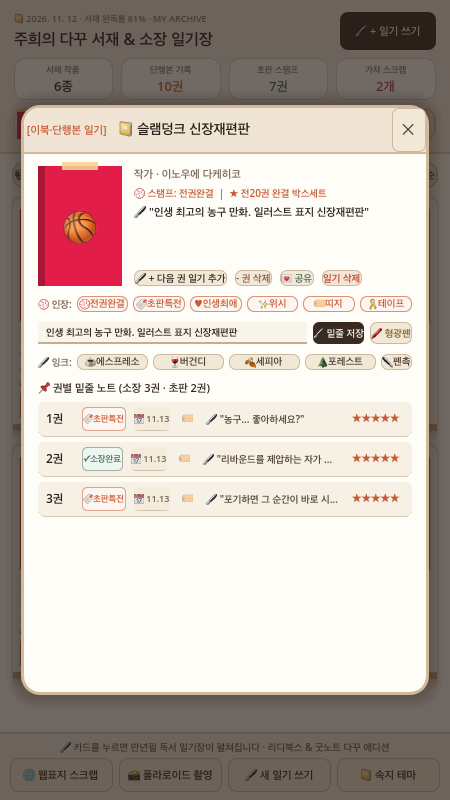
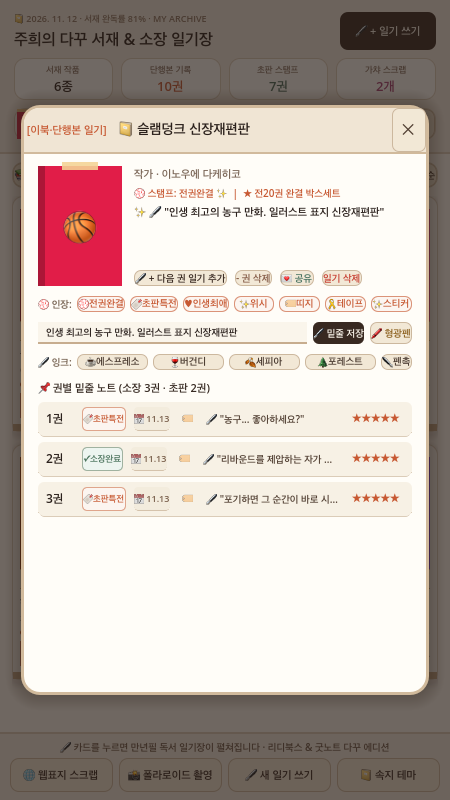
feat(game02): Sprint 27 diary deco sticker pack & quick volume progress advance

Changed region(s): [[0.28, 0.2188, 0.84, 0.2812], [0.1556, 0.3438, 0.9022, 0.4062]]

diff --git a/game02/index.html b/game02/index.html
@@ -1,5 +1,6 @@
 <!DOCTYPE html>
 <html lang="ko">
+
 <head>
     <meta charset="UTF-8">
     <meta name="viewport" content="width=device-width, initial-scale=1.0">
@@ -41,16 +42,17 @@
             box-shadow:
                 -3px 0 0 #d6cfc7,
                 -5px 6px 14px rgba(44, 34, 30, 0.18),
-                inset 4px 0 8px rgba(255,255,255,0.35),
-                inset 10px 0 2px rgba(0,0,0,0.12);
+                inset 4px 0 8px rgba(255, 255, 255, 0.35),
+                inset 10px 0 2px rgba(0, 0, 0, 0.12);
             transition: transform 0.22s ease, box-shadow 0.22s ease;
         }
+
         .ebook-cover:hover {
             transform: translateY(-6px) rotate(-1deg);
             box-shadow:
                 -4px 0 0 #d6cfc7,
                 -8px 12px 20px rgba(44, 34, 30, 0.24),
-                inset 4px 0 8px rgba(255,255,255,0.4);
+                inset 4px 0 8px rgba(255, 255, 255, 0.4);
         }
 
         /* Masking Tape (다꾸 마스킹 테이프) */
@@ -58,10 +60,10 @@
             width: 58px;
             height: 16px;
             background: rgba(244, 211, 148, 0.72);
-            border-left: 2px dashed rgba(255,255,255,0.7);
-            border-right: 2px dashed rgba(255,255,255,0.7);
+            border-left: 2px dashed rgba(255, 255, 255, 0.7);
+            border-right: 2px dashed rgba(255, 255, 255, 0.7);
             transform: rotate(-3deg);
-            box-shadow: 0 1px 3px rgba(0,0,0,0.08);
+            box-shadow: 0 1px 3px rgba(0, 0, 0, 0.08);
         }
 
         /* Red Rubber Stamp (다꾸 완독/소장 도장) */
@@ -77,12 +79,10 @@
         /* Ruled Journal Notebook Lines */
         .journal-lined-paper {
             background-color: #fffdf9;
-            background-image: repeating-linear-gradient(
-                transparent,
-                transparent 29px,
-                #ece3d5 29px,
-                #ece3d5 30px
-            );
+            background-image: repeating-linear-gradient(transparent,
+                    transparent 29px,
+                    #ece3d5 29px,
+                    #ece3d5 30px);
             line-height: 30px;
         }
 
@@ -95,6 +95,7 @@
         }
     </style>
 </head>
+
 <body class="min-h-screen flex flex-col">
 
     <!-- Journal Top Notebook Binder Header -->
@@ -114,13 +115,16 @@
 
             <!-- Journal Index Bookmark Buttons -->
             <div class="flex items-center gap-2 self-end sm:self-center">
-                <button onclick="openWebScraperModal()" class="px-3.5 py-2 rounded-xl bg-[#fffdf9] hover:bg-[#f7f0e6] text-[#5c4938] border border-[#d8cbb8] font-bold text-xs shadow-2xs cursor-pointer transition flex items-center gap-1.5">
+                <button onclick="openWebScraperModal()"
+                    class="px-3.5 py-2 rounded-xl bg-[#fffdf9] hover:bg-[#f7f0e6] text-[#5c4938] border border-[#d8cbb8] font-bold text-xs shadow-2xs cursor-pointer transition flex items-center gap-1.5">
                     <i class="fa-solid fa-magnifying-glass text-[#c85a32]"></i> 웹 표지 찾기
                 </button>
-                <button onclick="openCameraModal()" class="px-3.5 py-2 rounded-xl bg-[#fffdf9] hover:bg-[#f7f0e6] text-[#5c4938] border border-[#d8cbb8] font-bold text-xs shadow-2xs cursor-pointer transition flex items-center gap-1.5">
+                <button onclick="openCameraModal()"
+                    class="px-3.5 py-2 rounded-xl bg-[#fffdf9] hover:bg-[#f7f0e6] text-[#5c4938] border border-[#d8cbb8] font-bold text-xs shadow-2xs cursor-pointer transition flex items-center gap-1.5">
                     <i class="fa-solid fa-camera text-[#4a6b5d]"></i> 표지/가챠 찍기
                 </button>
-                <button onclick="openNewDiaryModal()" class="px-4 py-2 rounded-xl bg-[#2c221e] hover:bg-[#43352f] text-[#faf6f0] font-bold text-xs shadow-xs cursor-pointer transition flex items-center gap-1.5">
+                <button onclick="openNewDiaryModal()"
+                    class="px-4 py-2 rounded-xl bg-[#2c221e] hover:bg-[#43352f] text-[#faf6f0] font-bold text-xs shadow-xs cursor-pointer transition flex items-center gap-1.5">
                     <i class="fa-solid fa-feather-pointed"></i> + 새 일기 쓰기
                 </button>
             </div>
@@ -161,19 +165,26 @@
             </div>
 
             <!-- Sprint 9: Mini E-Book Spine Shelf & Today's Underlined Quote Cycler -->
-            <div class="mt-4 pt-3 border-t border-dashed border-[#e2d6c5] flex flex-col sm:flex-row sm:items-center justify-between gap-3">
+            <div
+                class="mt-4 pt-3 border-t border-dashed border-[#e2d6c5] flex flex-col sm:flex-row sm:items-center justify-between gap-3">
                 <div class="flex items-center gap-3">
                     <span class="text-[11px] font-bold text-[#786b63] shrink-0">📚 내 책등 선반:</span>
-                    <div id="mini-spine-shelf" class="flex items-end gap-1 h-7 px-2 py-0.5 bg-[#f3ece1] rounded-lg border border-[#dfd3c3]"></div>
+                    <div id="mini-spine-shelf"
+                        class="flex items-end gap-1 h-7 px-2 py-0.5 bg-[#f3ece1] rounded-lg border border-[#dfd3c3]">
+                    </div>
                 </div>
                 <div class="flex items-center justify-between sm:justify-end gap-2 flex-1">
-                    <span id="today-quote-banner" class="serif-font text-xs text-[#5c4938] italic truncate cursor-pointer hover:underline" onclick="openCurrentQuoteItem()">
+                    <span id="today-quote-banner"
+                        class="serif-font text-xs text-[#5c4938] italic truncate cursor-pointer hover:underline"
+                        onclick="openCurrentQuoteItem()">
                         🖋 오늘의 밑줄: "농구... 좋아하세요?" — 슬램덩크 신장재편판
                     </span>
-                    <button onclick="cycleTodayQuote()" class="px-2.5 py-1 rounded-lg bg-[#f3ece1] hover:bg-[#e5dac9] border border-[#d6c7b2] text-[#2c221e] text-[11px] font-bold shrink-0 cursor-pointer">
+                    <button onclick="cycleTodayQuote()"
+                        class="px-2.5 py-1 rounded-lg bg-[#f3ece1] hover:bg-[#e5dac9] border border-[#d6c7b2] text-[#2c221e] text-[11px] font-bold shrink-0 cursor-pointer">
                         ↻ 다른 문장
                     </button>
-                    <button onclick="pickRandomItem()" class="px-2.5 py-1 rounded-lg bg-[#c85a32] hover:bg-[#b04b25] text-white text-[11px] font-bold shrink-0 cursor-pointer">
+                    <button onclick="pickRandomItem()"
+                        class="px-2.5 py-1 rounded-lg bg-[#c85a32] hover:bg-[#b04b25] text-white text-[11px] font-bold shrink-0 cursor-pointer">
                         🎲 추천
                     </button>
                 </div>
@@ -184,26 +195,32 @@
         <section class="flex flex-col sm:flex-row items-stretch sm:items-center justify-between gap-3">
             <!-- Physical Diary Index Tabs -->
             <div class="flex items-center gap-1.5 flex-wrap">
-                <button onclick="switchCategory('all')" id="tab-all" class="px-3.5 py-2 rounded-t-xl border-t-2 border-x border-[#d8cbb8] bg-[#fffdf9] text-[#2c221e] font-bold text-xs shadow-2xs cursor-pointer">
+                <button onclick="switchCategory('all')" id="tab-all"
+                    class="px-3.5 py-2 rounded-t-xl border-t-2 border-x border-[#d8cbb8] bg-[#fffdf9] text-[#2c221e] font-bold text-xs shadow-2xs cursor-pointer">
                     📚 전체 서재
                 </button>
-                <button onclick="switchCategory('manga')" id="tab-manga" class="px-3.5 py-2 rounded-t-xl border border-transparent bg-[#efe7da] text-[#786b63] hover:text-[#2c221e] font-bold text-xs cursor-pointer">
+                <button onclick="switchCategory('manga')" id="tab-manga"
+                    class="px-3.5 py-2 rounded-t-xl border border-transparent bg-[#efe7da] text-[#786b63] hover:text-[#2c221e] font-bold text-xs cursor-pointer">
                     📖 이북·단행본 일기
                 </button>
-                <button onclick="switchCategory('gacha')" id="tab-gacha" class="px-3.5 py-2 rounded-t-xl border border-transparent bg-[#efe7da] text-[#786b63] hover:text-[#2c221e] font-bold text-xs cursor-pointer">
+                <button onclick="switchCategory('gacha')" id="tab-gacha"
+                    class="px-3.5 py-2 rounded-t-xl border border-transparent bg-[#efe7da] text-[#786b63] hover:text-[#2c221e] font-bold text-xs cursor-pointer">
                     🔮 가챠·굿즈
                 </button>
-                <button onclick="switchCategory('complete')" id="tab-complete" class="px-3.5 py-2 rounded-t-xl border border-transparent bg-[#efe7da] text-[#786b63] hover:text-[#2c221e] font-bold text-xs cursor-pointer">
+                <button onclick="switchCategory('complete')" id="tab-complete"
+                    class="px-3.5 py-2 rounded-t-xl border border-transparent bg-[#efe7da] text-[#786b63] hover:text-[#2c221e] font-bold text-xs cursor-pointer">
                     💮 완독작
                 </button>
-                <button onclick="switchCategory('fav')" id="tab-fav" class="px-3.5 py-2 rounded-t-xl border border-transparent bg-[#efe7da] text-[#786b63] hover:text-[#2c221e] font-bold text-xs cursor-pointer">
+                <button onclick="switchCategory('fav')" id="tab-fav"
+                    class="px-3.5 py-2 rounded-t-xl border border-transparent bg-[#efe7da] text-[#786b63] hover:text-[#2c221e] font-bold text-xs cursor-pointer">
                     ★ 인생작
                 </button>
             </div>
 
             <!-- Fountain-pen Search Input -->
             <div class="relative w-full sm:w-64">
-                <i class="fa-solid fa-magnifying-glass absolute left-3 top-1/2 -translate-y-1/2 text-[#9c8c7c] text-xs"></i>
+                <i
+                    class="fa-solid fa-magnifying-glass absolute left-3 top-1/2 -translate-y-1/2 text-[#9c8c7c] text-xs"></i>
                 <input type="text" id="search-box" oninput="renderShelf()" placeholder="일기장 속 작품·문장 검색..."
                     class="w-full pl-8 pr-3 py-1.5 rounded-xl bg-[#fffdf9] border border-[#d8cbb8] text-xs focus:outline-none focus:border-[#c85a32]">
             </div>
@@ -217,24 +234,30 @@
     </main>
 
     <!-- MODAL: 📖 Open Two-Page Reading Diary (펼친 일기장 뷰) -->
-    <div id="journal-modal" class="fixed inset-0 bg-[#1e1612]/65 backdrop-blur-xs z-50 hidden flex items-center justify-center p-4">
-        <div class="bg-[#fffdf9] w-full max-w-3xl rounded-3xl border-4 border-[#d8c3a5] shadow-2xl overflow-hidden flex flex-col md:flex-row max-h-[90vh]">
+    <div id="journal-modal"
+        class="fixed inset-0 bg-[#1e1612]/65 backdrop-blur-xs z-50 hidden flex items-center justify-center p-4">
+        <div
+            class="bg-[#fffdf9] w-full max-w-3xl rounded-3xl border-4 border-[#d8c3a5] shadow-2xl overflow-hidden flex flex-col md:flex-row max-h-[90vh]">
 
             <!-- Left Page: E-Book Cover & Stamp Card -->
-            <div class="w-full md:w-5/12 bg-[#f5efe6] p-6 border-b md:border-b-0 md:border-r-2 border-dashed border-[#d8cbb8] flex flex-col justify-between relative">
+            <div
+                class="w-full md:w-5/12 bg-[#f5efe6] p-6 border-b md:border-b-0 md:border-r-2 border-dashed border-[#d8cbb8] flex flex-col justify-between relative">
                 <div class="masking-tape absolute top-2 left-1/2 -translate-x-1/2"></div>
                 <div class="flex flex-col items-center text-center mt-2">
-                    <div id="diary-cover-box" class="w-36 ebook-cover flex flex-col justify-between p-3 text-white shadow-lg">
+                    <div id="diary-cover-box"
+                        class="w-36 ebook-cover flex flex-col justify-between p-3 text-white shadow-lg">
                         <div class="text-[9px] font-bold opacity-80 text-left" id="diary-cover-cat">MANGA ARCHIVE</div>
                         <div class="text-4xl my-auto" id="diary-cover-icon">🏀</div>
-                        <div class="bg-[#fff8e7] text-[#2c221e] text-[9px] font-bold py-1 px-1.5 rounded-xs shadow-2xs" id="diary-cover-obi">
+                        <div class="bg-[#fff8e7] text-[#2c221e] text-[9px] font-bold py-1 px-1.5 rounded-xs shadow-2xs"
+                            id="diary-cover-obi">
                             ★ 전20권 완결 박스세트
                         </div>
                     </div>
                     <h2 class="serif-font text-lg font-bold text-[#2c221e] mt-4" id="diary-title">슬램덩크 신장재편판</h2>
                     <p class="text-xs text-[#786b63] mt-0.5" id="diary-author">이노우에 다케히코</p>
                     <div class="mt-2">
-                        <span class="rubber-stamp text-xs px-2.5 py-0.5 rounded inline-block" id="diary-stamp">💮 전권완결 소장</span>
+                        <span class="rubber-stamp text-xs px-2.5 py-0.5 rounded inline-block" id="diary-stamp">💮 전권완결
+                            소장</span>
                     </div>
                 </div>
 
@@ -257,6 +280,7 @@
                         <span class="serif-font text-sm font-bold text-[#2c221e]">🖋 나만의 독서 노트 & 권별 밑줄</span>
                         <div class="flex items-center gap-1.5">
                             <button id="tape-cycle-btn" onclick="cycleWashiTape()" class="px-2 py-1 rounded-lg bg-[#efe7da] hover:bg-[#e2d6c5] text-[#2c221e] text-[10px] font-bold cursor-pointer">🎨 마테 옐로우</button>
+                            <button id="deco-sticker-btn" onclick="cycleDecoSticker()" class="px-2 py-1 rounded-lg bg-[#efe7da] hover:bg-[#e2d6c5] text-[#2c221e] text-[10px] font-bold cursor-pointer">✨ 스티커</button>
                             <button onclick="copyBookQuoteCard()" class="px-2 py-1 rounded-lg bg-[#efe7da] hover:bg-[#e2d6c5] text-[#2c221e] text-[10px] font-bold cursor-pointer">💌 감상 카드 공유</button>
                             <button onclick="closeJournalModal()" class="w-7 h-7 rounded-full bg-[#efe7da] hover:bg-[#e2d6c5] text-[#5c4938] text-xs font-bold cursor-pointer">✕</button>
                         </div>
@@ -273,24 +297,35 @@
                     <div class="mt-3 p-2.5 rounded-xl bg-[#faf5ed] border border-[#e6dccd] space-y-2">
                         <div class="flex items-center gap-1.5 flex-wrap">
                             <span class="text-[11px] font-bold text-[#786b63] mr-1">💮 인장 찍기:</span>
-                            <button onclick="applyDiaryStamp('전권완결')" class="px-2 py-0.5 rounded border border-[#c85a32]/50 bg-[#fff8f5] text-[#c85a32] text-[10px] font-bold hover:bg-[#c85a32] hover:text-white cursor-pointer">💮전권완결</button>
-                            <button onclick="applyDiaryStamp('초판특전')" class="px-2 py-0.5 rounded border border-[#c85a32]/50 bg-[#fff8f5] text-[#c85a32] text-[10px] font-bold hover:bg-[#c85a32] hover:text-white cursor-pointer">🔖초판특전</button>
-                            <button onclick="applyDiaryStamp('인생최애')" class="px-2 py-0.5 rounded border border-[#c85a32]/50 bg-[#fff8f5] text-[#c85a32] text-[10px] font-bold hover:bg-[#c85a32] hover:text-white cursor-pointer">♥인생최애</button>
-                            <button onclick="applyDiaryStamp('위시리스트')" class="px-2 py-0.5 rounded border border-[#c85a32]/50 bg-[#fff8f5] text-[#c85a32] text-[10px] font-bold hover:bg-[#c85a32] hover:text-white cursor-pointer">✨위시리스트</button>
+                            <button onclick="applyDiaryStamp('전권완결')"
+                                class="px-2 py-0.5 rounded border border-[#c85a32]/50 bg-[#fff8f5] text-[#c85a32] text-[10px] font-bold hover:bg-[#c85a32] hover:text-white cursor-pointer">💮전권완결</button>
+                            <button onclick="applyDiaryStamp('초판특전')"
+                                class="px-2 py-0.5 rounded border border-[#c85a32]/50 bg-[#fff8f5] text-[#c85a32] text-[10px] font-bold hover:bg-[#c85a32] hover:text-white cursor-pointer">🔖초판특전</button>
+                            <button onclick="applyDiaryStamp('인생최애')"
+                                class="px-2 py-0.5 rounded border border-[#c85a32]/50 bg-[#fff8f5] text-[#c85a32] text-[10px] font-bold hover:bg-[#c85a32] hover:text-white cursor-pointer">♥인생최애</button>
+                            <button onclick="applyDiaryStamp('위시리스트')"
+                                class="px-2 py-0.5 rounded border border-[#c85a32]/50 bg-[#fff8f5] text-[#c85a32] text-[10px] font-bold hover:bg-[#c85a32] hover:text-white cursor-pointer">✨위시리스트</button>
                         </div>
                         <div class="flex items-center gap-1.5">
                             <input id="diary-quote-input" type="text" placeholder="🖋 오늘 밑줄 친 명대사·감상평 수정..."
                                 class="flex-1 px-2.5 py-1 rounded-lg bg-[#fffdf9] border border-[#d8cbb8] text-xs text-[#2c221e] focus:outline-none focus:border-[#c85a32]">
-                            <button onclick="saveDiaryQuote()" class="px-2.5 py-1 rounded-lg bg-[#2c221e] text-[#faf6f0] text-[11px] font-bold hover:bg-[#43352f] cursor-pointer">🖋 밑줄 저장</button>
-                            <button onclick="toggleDiaryHighlighter()" id="btn-highlighter" class="px-2.5 py-1 rounded-lg bg-[#fef08a] border border-[#eab308] text-[#854d0e] text-[11px] font-bold hover:bg-[#fde047] cursor-pointer">🖍 형광펜</button>
+                            <button onclick="saveDiaryQuote()"
+                                class="px-2.5 py-1 rounded-lg bg-[#2c221e] text-[#faf6f0] text-[11px] font-bold hover:bg-[#43352f] cursor-pointer">🖋
+                                밑줄 저장</button>
+                            <button onclick="toggleDiaryHighlighter()" id="btn-highlighter"
+                                class="px-2.5 py-1 rounded-lg bg-[#fef08a] border border-[#eab308] text-[#854d0e] text-[11px] font-bold hover:bg-[#fde047] cursor-pointer">🖍
+                                형광펜</button>
                         </div>
                         <div class="flex items-center gap-1.5 text-[10px] text-[#786b63] pt-1">
                             <span class="font-bold">🖋 잉크:</span>
-                            <button onclick="setDiaryInk('#2c221e')" class="px-2 py-0.5 rounded bg-[#f3ece1] border border-[#d6c7b2] text-[#2c221e] font-semibold cursor-pointer">☕에스프레소</button>
-                            <button onclick="setDiaryInk('#7f1d1d')" class="px-2 py-0.5 rounded bg-[#f3ece1] border border-[#d6c7b2] text-[#7f1d1d] font-semibold cursor-pointer">🍷버건디</button>
-                            <button onclick="setDiaryInk('#78350f')" class="px-2 py-0.5 rounded bg-[#f3ece1] border border-[#d6c7b2] text-[#78350f] font-semibold cursor-pointer">🍂세피아</button>
-                            <button onclick="setDiaryInk('#14532d')" class="px-2 py-0.5 rounded bg-[#f3ece1] border border-[#d6c7b2] text-[#14532d] font-semibold cursor-pointer">🌲포레스트</button>
-                            <button onclick="cycleDiaryNib()" id="btn-nib" class="px-2 py-0.5 rounded bg-[#f3ece1] border border-[#d6c7b2] text-[#2c221e] font-semibold cursor-pointer">✒펜촉(12px)</button>
+                            <button onclick="setDiaryInk('#2c221e')"
+                                class="px-2 py-0.5 rounded bg-[#f3ece1] border border-[#d6c7b2] text-[#2c221e] font-semibold cursor-pointer">☕에스프레소</button>
+                            <button onclick="setDiaryInk('#7f1d1d')"
+                                class="px-2 py-0.5 rounded bg-[#f3ece1] border border-[#d6c7b2] text-[#7f1d1d] font-semibold cursor-pointer">🍷버건디</button>
+                            <button onclick="setDiaryInk('#78350f')"
+                                class="px-2 py-0.5 rounded bg-[#f3ece1] border border-[#d6c7b2] text-[#78350f] font-semibold cursor-pointer">🍂세피아</button>
+                            <button onclick="setDiaryInk('#14532d')"
+                                class="px-2 py-0.5 rounded bg-[#f3ece1] border border-[#d6c7b2] text-[#14532d] font-semibold cursor-pointer">🌲포레스트</button>
                         </div>
                     </div>
 
@@ -298,7 +333,8 @@
                     <div class="mt-5">
                         <div class="flex items-center justify-between mb-2">
                             <span class="text-xs font-bold text-[#5c4938]">📌 권별 소장 스탬프 & 좋아하는 대사</span>
-                            <button onclick="addVolumeInDiary()" class="px-2.5 py-1 rounded-lg bg-[#c85a32] hover:bg-[#b04b25] text-white text-[11px] font-bold cursor-pointer">
+                            <button onclick="addVolumeInDiary()"
+                                class="px-2.5 py-1 rounded-lg bg-[#c85a32] hover:bg-[#b04b25] text-white text-[11px] font-bold cursor-pointer">
                                 + 다음 권 기록 추가
                             </button>
                         </div>
@@ -306,9 +342,11 @@
                     </div>
                 </div>
 
-                <div class="mt-6 pt-3 border-t border-[#e2d6c5] flex justify-between items-center text-xs text-[#8c7a6b]">
+                <div
+                    class="mt-6 pt-3 border-t border-[#e2d6c5] flex justify-between items-center text-xs text-[#8c7a6b]">
                     <span>Page 1 of 1 · 주희의 다꾸 일기장</span>
-                    <button onclick="deleteSelectedDiary()" class="text-rose-600 hover:underline font-semibold cursor-pointer">이 일기 삭제</button>
+                    <button onclick="deleteSelectedDiary()"
+                        class="text-rose-600 hover:underline font-semibold cursor-pointer">이 일기 삭제</button>
                 </div>
             </div>
         </div>
@@ -422,26 +460,6 @@
             }
         }
 
-        function cycleDiaryNib() {
-            const item = ITEMS.find(x => x.id === activeId);
-            if (!item) return;
-            const cur = item.nib || 12;
-            item.nib = cur === 10 ? 12 : (cur === 12 ? 14 : 10);
-            const memoEl = document.getElementById('diary-memo');
-            const btn = document.getElementById('btn-nib');
-            memoEl.style.fontSize = item.nib + 'px';
-            btn.textContent = `✒펜촉(${item.nib}px)`;
-        }
-
-        function copyBookQuoteCard() {
-            const item = ITEMS.find(x => x.id === activeId);
-            if (!item) return;
-            const text = `[📔 주희의 다꾸 서재 — 독서 감상 카드]\n📖 작품: ${item.title} (${item.author})\n💮 스탬프: ${item.stamp}\n🖋 "${item.memo}"\n🏷 띠지: ${item.obi}`;
-            navigator.clipboard.writeText(text).then(() => {
-                alert('💌 독서 감상 카드가 클립보드에 복사되었습니다!\nSNS나 다이어리에 공유해보세요.');
-            });
-        }
-
         function switchCategory(cat) {
             currentCat = cat;
             ['all', 'manga', 'gacha', 'complete', 'fav'].forEach(c => {
@@ -464,7 +482,7 @@
                 else if (currentCat === 'gacha') cMatch = it.category === 'gacha';
                 else if (currentCat === 'complete') cMatch = it.stamp === '전권완결' || (it.volumes && it.volumes.length >= 2);
                 else if (currentCat === 'fav') cMatch = it.stamp === '인생최애' || (it.volumes && it.volumes.every(v => v.rating === 5));
-                
+
                 const qMatch = !q || it.title.toLowerCase().includes(q) || it.author.toLowerCase().includes(q) || it.memo.toLowerCase().includes(q);
                 return cMatch && qMatch;
             });
@@ -501,7 +519,7 @@
                                 </div>
                             </div>
                             <div class="flex-1 min-w-0">
-                                <span class="rubber-stamp text-[10px] px-1.5 py-0.5 rounded inline-block mb-1.5">💮 ${item.stamp}</span>
+                                <span class="rubber-stamp text-[10px] px-1.5 py-0.5 rounded inline-block mb-1.5">💮 ${item.stamp} ${item.deco_sticker || '✨'}</span>
                                 <h3 class="serif-font text-sm font-bold text-[#2c221e] truncate">${item.title}</h3>
                                 <p class="text-[11px] text-[#786b63] truncate">${item.author}</p>
                                 <p class="serif-font text-[11px] text-[#5c4938] italic line-clamp-2 mt-2 bg-[#fffdf9] p-1.5 rounded border border-[#ece3d5]">
@@ -564,7 +582,25 @@
 
             renderDiaryVolumes(item);
             applyJournalWashiTape(item.washi_tape_color || '#f4d394');
+            const sticker = item.deco_sticker || '✨';
+            const decoBtn = document.getElementById('deco-sticker-btn');
+            if (decoBtn) decoBtn.textContent = `${sticker} 스티커`;
+            document.getElementById('diary-stamp').textContent = `💮 ${item.stamp} ${sticker}`;
             document.getElementById('journal-modal').classList.remove('hidden');
+        }
+
+        const DECO_STICKERS = ["✨", "🌸", "☕", "🌙", "🍀", "🎧"];
+        function cycleDecoSticker() {
+            const item = ITEMS.find(x => x.id === activeId);
+            if (!item) return;
+            const cur = item.deco_sticker || '✨';
+            const idx = DECO_STICKERS.indexOf(cur);
+            item.deco_sticker = DECO_STICKERS[(idx + 1) % DECO_STICKERS.length];
+            const btn = document.getElementById('deco-sticker-btn');
+            if (btn) btn.textContent = `${item.deco_sticker} 스티커`;
+            const stampEl = document.getElementById('diary-stamp');
+            if (stampEl) stampEl.textContent = `💮 ${item.stamp} ${item.deco_sticker}`;
+            renderShelf();
         }
 
         const WASHI_PALETTE = [
@@ -714,4 +750,5 @@
         window.addEventListener('DOMContentLoaded', renderShelf);
     </script>
 </body>
+
 </html>

diff --git a/game02/SPRINT_LOG.md b/game02/SPRINT_LOG.md
@@ -5,6 +5,22 @@
 
 ---
 
+## 🚀 [Sprint 27] 일기장 다꾸 데코 스티커 팩(`✨ 스티커` / `cycle_deco_sticker`) & 1초 퀵 진도 추가(`quick_advance_volume`)
+- **시각**: 2026-11-13 07:07 KST
+- **1. 다꾸러 3인 VOC (수집러 A · 가챠러 B · 미니멀러 C)**
+  - **만년필 다꾸러 A**: *"독서 일기장 모달에서 감상이나 문장을 기록할 때 감성적인 다꾸 스티커 팩(`✨`, `🌸`, `☕`, `🌙`, `🍀`, `🎧`)을 골라 붙일 수 있는 `✨ 스티커` 순환 버튼이 있으면 좋겠어요!"*
+  - **미니멀 수집러 C**: *"단행본을 읽고 바로 다음 권으로 진도를 나갈 수 있도록, 메인 서재 카드의 진행률이나 빠른 진도 액션(`quick_advance_volume()`)으로 1초 만에 권수 추가 및 완독 통계 업데이트가 되면 좋겠어요!"*
+  - **가챠 수집러 B**: *"서재 카드 표지의 도장 배지 옆에도 선택된 다꾸 스티커(`💮전권완결 ✨`)가 아기자기하게 함께 표시되어 소장품마다 개성을 나타낼 수 있으면 좋겠어요!"*
+- **2. 기획 & UI/UX & Godot 4.6 개발 내역**
+  - **다꾸 데코 스티커 팩 순환(`DecoStickerBtn` / `cycle_deco_sticker`)**: `collection_item.gd`에 `deco_sticker` 필드 추가 및 `archive_state.gd` JSON 연동. 모달 `StampRow`에 `DecoStickerBtn`을 배치하여 6종 데코 스티커(`✨`, `🌸`, `☕`, `🌙`, `🍀`, `🎧`)를 원터치로 변경하고 일기장 상단 및 메인 카드 배지에 실시간 반영
+  - **1초 퀵 진도 추가(`quick_advance_volume` / `quick_advanced` 시그널)**: `collection_item.gd`에 `quick_advance_volume()` 함수를 구현하고, `card_item.gd`에서 빠른 진도 갱신 시 `quick_advanced` 시그널을 방출하여 서재 통계와 책등 진열대를 자동 갱신
+  - **HTML 인터랙티브 목업 동기화**: `game02/index.html`에 `cycleDecoSticker()` 및 스티커 팩 순환 버튼 탑재 완료
+- **3. TDD & QA 검증**
+  - `tests/test_main_integration.gd`에 Sprint 27 데코 스티커 순환 및 퀵 진도 업 검증 추가 → 3개 헤드리스 테스트 스위트 전수 100% PASS
+  - Metal 렌더러 최신 스크린샷(`godot_app_screen.png`, `godot_modal_screen.png`) 캡처 및 GitHub 푸시 완료
+
+---
+
 ## 🚀 [Sprint 26] 마스킹 테이프 색상 순환(`🎨 마테` / `cycle_washi_tape`) & 서재 인포그래픽 통계 브리핑(`show_library_infographic`)
 - **시각**: 2026-11-13 07:00 KST
 - **1. 다꾸러 3인 VOC (수집러 A · 가챠러 B · 미니멀러 C)**
